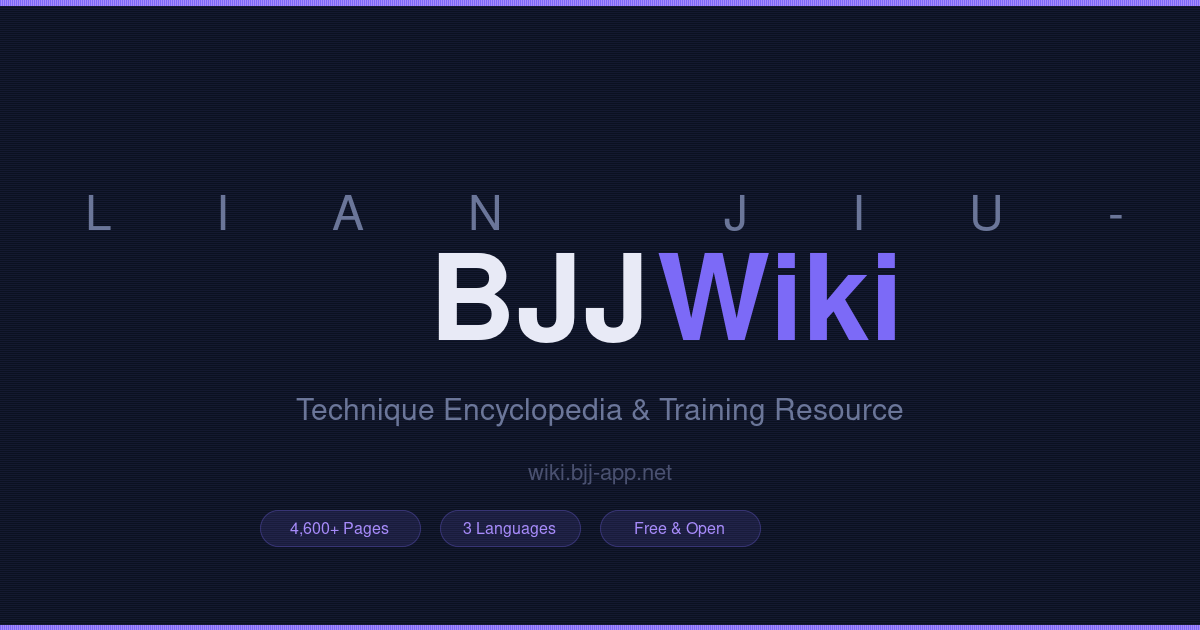
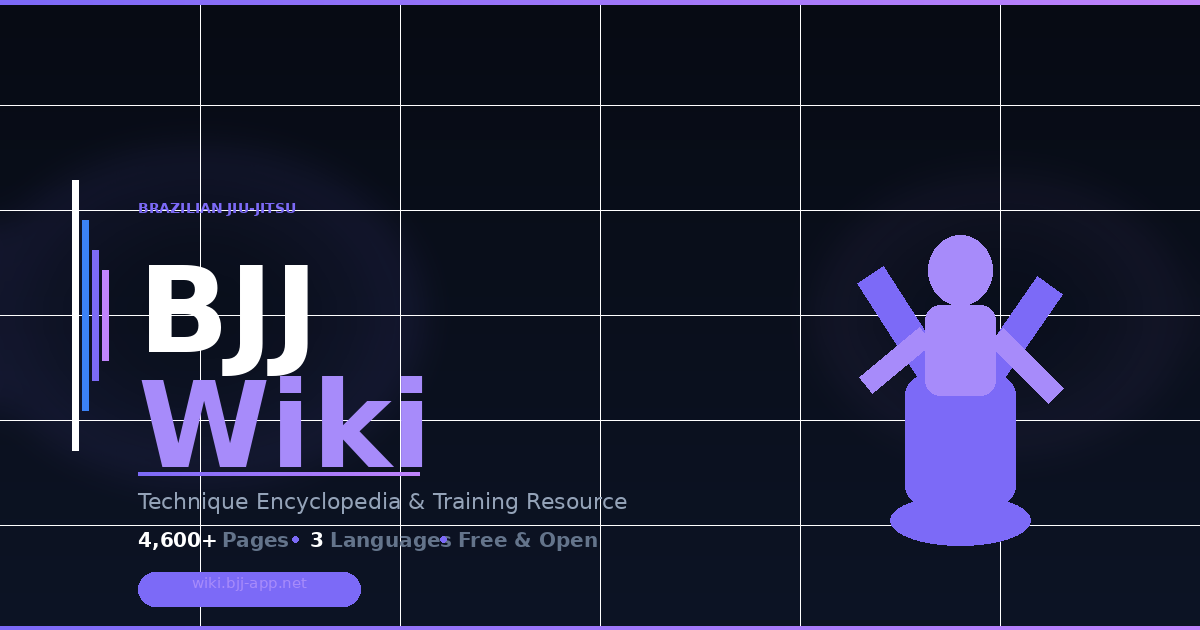
improve: og-image redesign + X posting to 1x/day
- og-image.svg: full redesign — dark premium, grid bg, belt stripes,
  purple glow orbs, BJJ figure silhouette, gradient accents
- og-image.png: regenerated from new design
- auto_post_pinterest.py: use .png instead of .svg for Pinterest API
- auto_post_x.py: DEFAULT_LIMIT 2→1 (1 tweet/day)
- auto_post_x.yml: remove 2nd daily cron (21:00 JST), keep 12:00 JST only

diff --git a/scripts/auto_post_x.py b/scripts/auto_post_x.py
@@ -42,7 +42,7 @@ from datetime import datetime, timezone
 SITE_BASE_URL = "https://t307239.github.io/bjj-wiki"
 POSTED_LOG    = os.path.join(os.path.dirname(os.path.dirname(__file__)), "already_posted_x.txt")
 MAX_TWEET_LEN = 280
-DEFAULT_LIMIT = 2  # 1回の実行で最大投稿数（1日2回実行 × 2件 = 4件/日、月120件で余裕あり）
+DEFAULT_LIMIT = 1  # 1回の実行で最大投稿数（1日1回実行 × 1件 = 1件/日）
 
 # ハッシュタグ（スペースを考慮してコンパクトに）
 HASHTAGS = "#BJJ #BrazilianJiuJitsu #柔術"
@@ -246,8 +246,8 @@ def main():
     print(f"未投稿:     {remaining}件")
     print(f"今回投稿上限: {limit}件")
     if remaining > 0:
-        days_to_complete = (remaining + limit * 2 - 1) // (limit * 2)  # 2回/日想定
-        print(f"完了まで約: {days_to_complete}日（1日{limit*2}件ペース）")
+        days_to_complete = (remaining + limit - 1) // limit  # 1回/日想定
+        print(f"完了まで約: {days_to_complete}日（1日{limit}件ペース）")
     print()
 
     count = 0

diff --git a/scripts/auto_post_pinterest.py b/scripts/auto_post_pinterest.py
@@ -30,7 +30,7 @@ def post_to_pinterest(title, description, link, board_id):
         "title": title[:100],
         "description": description[:500],
         "link": link,
-        "media_source": {"source_type": "image_url", "url": "https://t307239.github.io/bjj-wiki/og-image.svg"},
+        "media_source": {"source_type": "image_url", "url": "https://t307239.github.io/bjj-wiki/og-image.png"},
         "alt_text": title + " - BJJ technique guide"
     }
     try:
